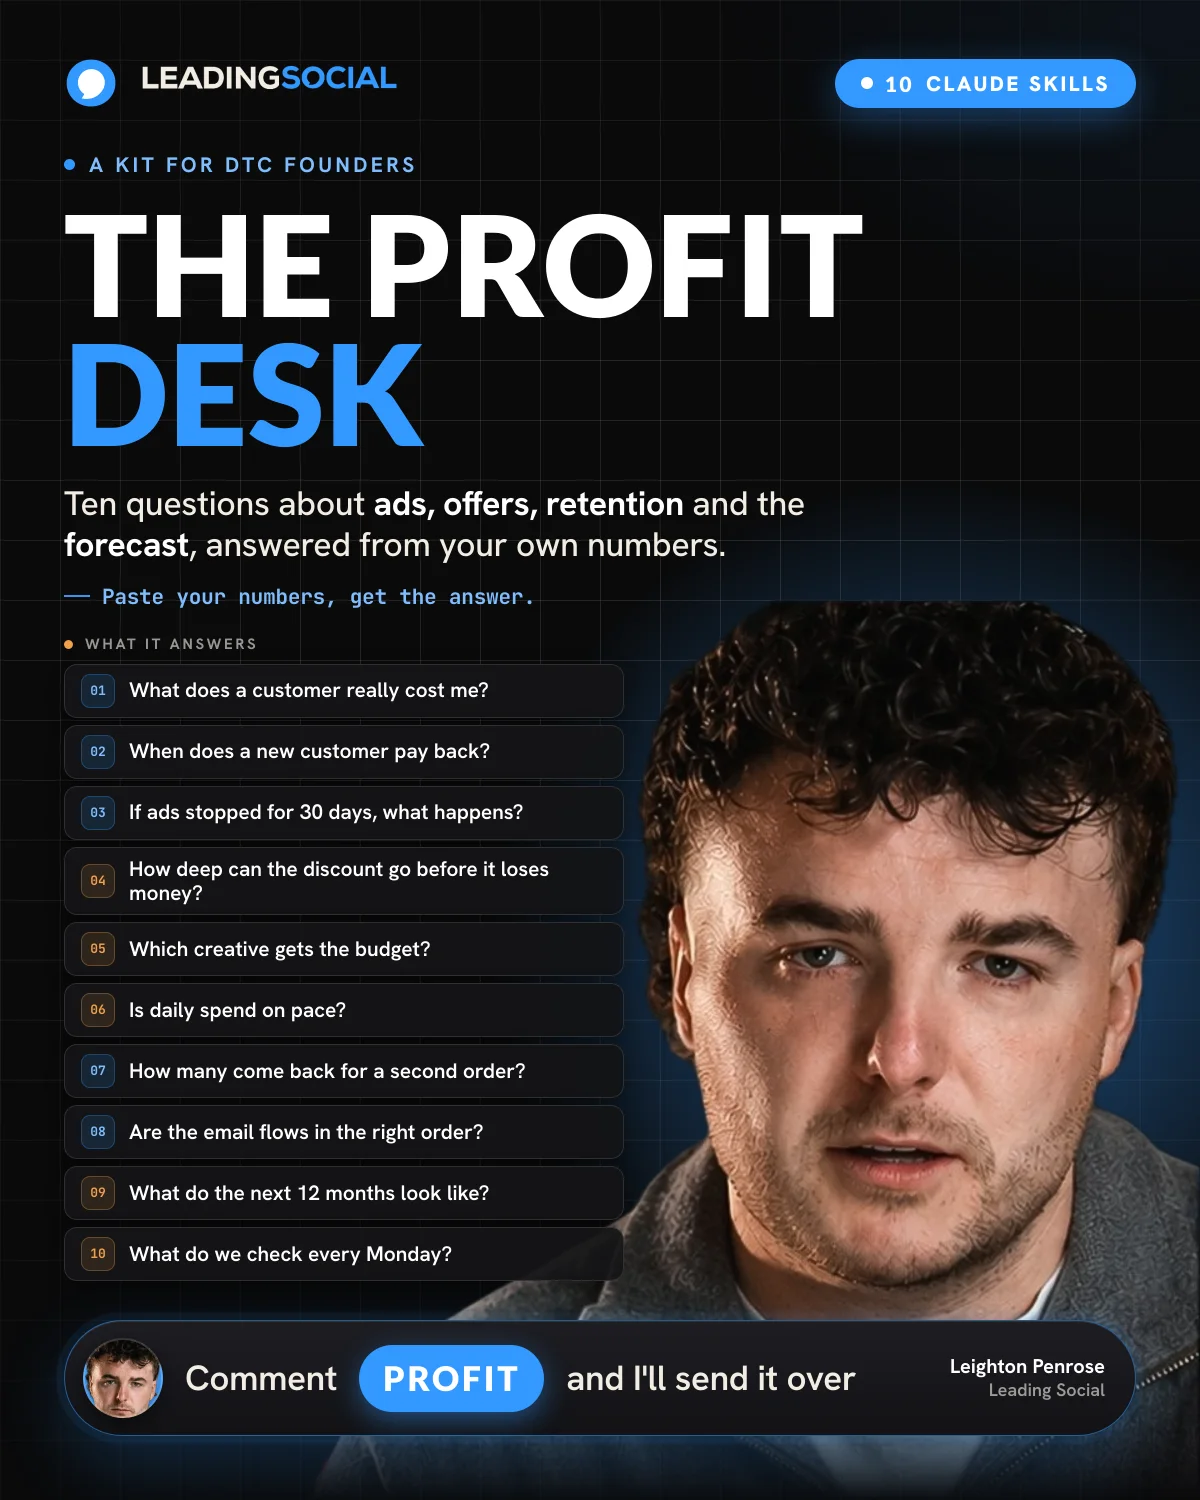
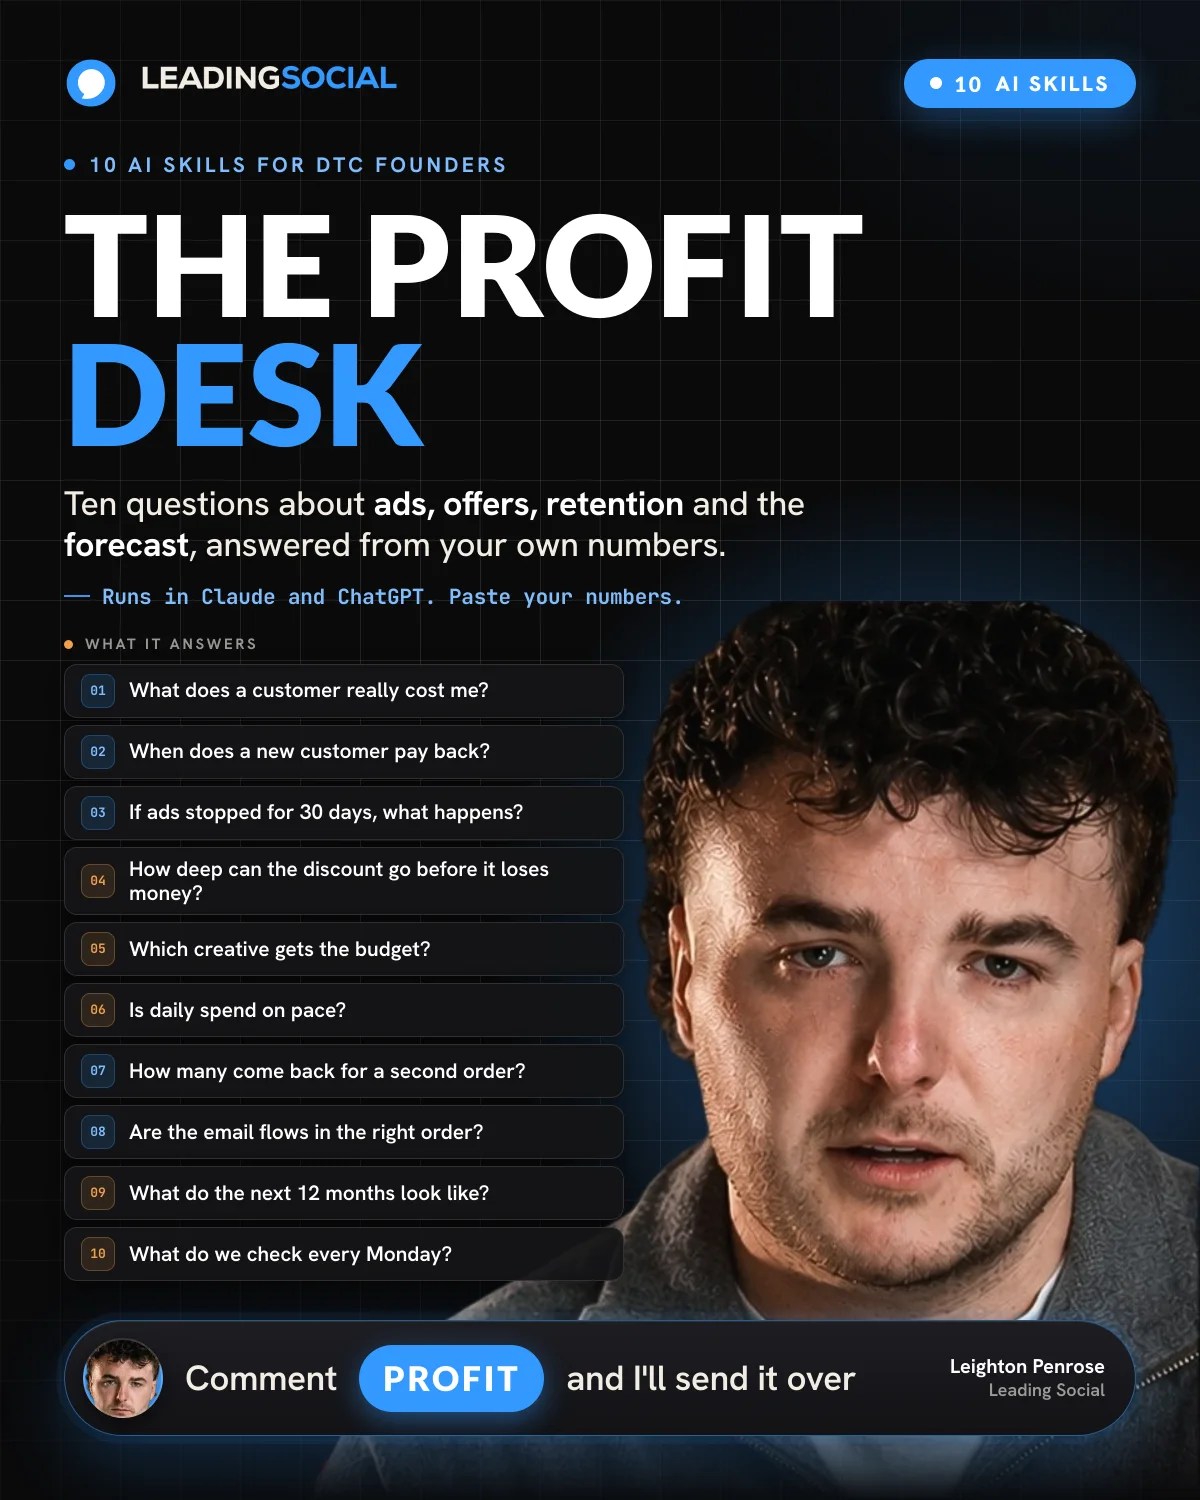
shared/leading-social: round 5

diff --git a/shared/leading-social/index.html b/shared/leading-social/index.html
@@ -23,8 +23,8 @@
 <section class="head wrap" id="top">
   <div>
     <span class="kicker">For Leighton Penrose · Leading Social</span>
-    <h1>Your content samples, from your YouTube channel.</h1>
-    <p class="strap">Four posts and a carousel, written from your videos, the two podcasts and your own feed, plus two lead magnets in your brand. The plan is at the bottom.</p>
+    <h1>Your LinkedIn as a true lead channel.</h1>
+    <p class="strap">Content samples in your voice, written from your YouTube channel, the two podcasts and your own feed, plus two lead magnets in your brand. The plan is at the bottom.</p>
     <ul class="jump" aria-label="On this page">
       <li><a class="inline-link" href="#posts">The posts <span aria-hidden="true">↓</span></a></li>
       <li><a class="inline-link" href="#topics">Topics <span aria-hidden="true">↓</span></a></li>
@@ -48,7 +48,7 @@
 <section class="sec" id="posts">
   <div class="wrap">
     <span class="kicker">The posts</span>
-    <h2>Four posts and a carousel, cut from what you already put out.</h2>
+    <h2>In your voice, from what you already put out.</h2>
   </div>
   <div class="feed">
     <div class="wrap">
@@ -57,23 +57,17 @@
 <div class="li-head"><img class="li-avatar" src="assets/leighton.jpg" alt="" width="48" height="48" loading="lazy" decoding="async"><div class="li-who"><strong>Leighton Penrose <i>· You</i></strong><span>Co-Owner, Leading Social</span><span>Draft · 🌐</span></div><span class="li-in" aria-hidden="true">in</span></div>
 <div class="li-body">We recorded a podcast with Karl O'Brien a few months back and one of the topics on the table was why brands hate agencies, and where those relationships actually fall apart.
 
-I run an agency, a lot of my friends run agencies, and I told him I didn't get where the hate comes from.
+I run an agency. A lot of my friends run agencies. So I asked him where the hate comes from.
 
 Karl's answer was the most useful thing I've heard on it.
 
-The agency is often the one putting the advertising spend to use, and he put that spend at anywhere between 10 and 40% of revenue.
-
-The founder is trying to talk about the financial side of the business. The agency, in his words, is "spitting marketing metrics back at them".
+The agency is often the one putting the ad spend to use, and he put that at anywhere between 10 and 40% of revenue.
+The founder wants to talk about the financial side of the business.
+The agency, in his words, is "spitting marketing metrics back at them".
 
 I've been that agency.
 
-A few years ago a client of ours did about half a million in sales over Black Friday. When we reviewed it in January the margins were gone.
-
-We had no sight of their costs at that stage, and we had never asked for them.
-
-Karl mentioned brands that have gone through six or seven agencies in 24 months. His advice to them was "don't make the same mistake again".
-
-In his view, more times than not the relationship breaks down because marketing and finance have no shared understanding of the numbers.
+A few years ago a client of ours did about half a million in sales over Black Friday. When we reviewed it in January the margins were gone. We had no sight of their costs, and we had never asked for them.
 
 So if you're about to hire an agency, or replace one, I'd start with one question.
 
@@ -109,7 +103,7 @@ Then we run Black Friday as a 12-week campaign with our clients. It's late Septe
 
 The full timeline is in the carousel.
 
-I put the five numbers and the 12-week timeline into one planner. Link in the comments.</div>
+I put the five numbers and the 12-week timeline into one planner. It's below 👇</div>
 <div class="li-doc">
 <div class="car" data-carousel role="group" aria-roledescription="carousel" aria-label="Black Friday carousel, 10 slides">
 <div class="car-view">
@@ -147,9 +141,9 @@ When I started Leading Social all I wanted was to replace my income and work on 
 
 The goalpost always moves.
 
-For the last couple of years I've been flying over to meet clients in LA, Miami and Vegas. Now I'm based on the same side of the Atlantic as them, and I got to speak at Ecom Edit: Health &amp; Beauty East just after I landed.
+For the last couple of years I've been flying over to meet clients in LA, Miami and Vegas. Now I'm on the same side of the Atlantic as them.
 
-The team is still in Dublin and I'll be back plenty. I said it when I turned 27 and I'll say it again: Ireland isn't that bad. The atmosphere and the people are unmatched, and so is the Guinness.
+I said it when I turned 27 and I'll say it again: Ireland isn't that bad. The atmosphere and the people are unmatched, and so is the Guinness.
 
 If you run a brand in New York, or you're a friend passing through, let me know if you're around 🍺</div>
 <img class="li-photo" src="assets/leighton-pint.webp" alt="Leighton raising a pint of Guinness" width="1110" height="1040" loading="lazy" decoding="async">
@@ -167,27 +161,27 @@ If you run a brand in New York, or you're a friend passing through, let me know 
 
 I came into every brand with ideas to push that number up, and in all fairness, pre-COVID most of us were in that boat.
 
-ROAS tells you how an ad performs today. CAC to LTV tells you whether the business can scale for years.
+ROAS tells you how an ad performs today.
+CAC to LTV tells you whether the business can scale for years.
 
-So now the first thing we map for a new brand is LTV over time: day 0, day 30, day 60, day 90, day 180. Then we put the true CAC beside each one.
-
-True CAC means everything it took to get that customer: ad spend, creator fees, agency fees, content, the smaller tools running in the background.
+So now the first thing we map for a new brand is LTV over time, with the true CAC beside it. True CAC means everything it took to get that customer:
+• ad spend
+• creator fees
+• agency fees
+• content
+• the smaller tools running in the background
 
 Let's say two brands both pay €40 to acquire a customer.
 
-The first gets €55 back on day 0, €75 by day 30 and €110 by day 90. Profitable on the first order, and that brand can usually scale hard.
+The first gets €55 back on day 0 and €110 by day 90. That brand can usually scale hard.
 
-The second gets €30 on day 0 and €45 by day 90.
+The second gets €30 on day 0 and €45 by day 90. That brand is bleeding cash while it waits for retention to save it.
 
 Same CAC.
 
-That brand is bleeding cash while it waits for retention to save it, and there's no proof yet that it will.
-
-The rough healthy range we work to is around 1.5 times your CAC back within 30 to 60 days, and two to three times within 90 to 180.
-
 It won't hold for everyone. If you sell sofas, nobody is buying four a year.
 
-I broke the whole thing down in a video we now use as the SOP for every new client. I'll drop the link in the comments.</div>
+I broke the whole thing down in the video we now use as the SOP for every new client.</div>
 <div class="li-actions" aria-hidden="true">
 <span><svg viewBox="0 0 24 24"><path d="M7 11v9H4v-9h3zm0 0 4-7c1.5 0 2.5 1 2.5 2.5V10h5a2 2 0 0 1 2 2.3l-1.2 6a2 2 0 0 1-2 1.7H7"/></svg>Like</span>
 <span><svg viewBox="0 0 24 24"><path d="M4 5h16v11H9l-5 4V5z"/></svg>Comment</span>
@@ -213,28 +207,17 @@ Which one can scale without panic?
 
 Acquisition matters. Totally get that.
 It's mainly what I built my career on.
-It's how people find you, and you see the jump almost straight away.
-You launch ads, revenue moves, you feel the momentum.
 
 That momentum is fragile though.
-I've learned it in my own business too.
 It's strange to build a whole system around something you don't really control.
 
-Retention doesn't give you that adrenaline hit.
-A good email campaign is a nice morning.
-A new ad taking off within a couple of hours feels like you've got something going.
-
-But when customers start coming back on their own, a few things change.
+When customers start coming back on their own, a few things change.
 you stop rebuilding revenue from zero every month
 cash flow gets more predictable
 the ad account gets a lot less stressful
 and you usually have more cash in the bank
 
-It can be boring work. It probably builds the strongest businesses I see.
-
-You spent so much getting these customers. Make sure they're staying, make sure they're spending, then pair that with a strong acquisition plan.
-
-Full video is on YouTube, link in the comments.</div>
+It can be boring work. It probably builds the strongest businesses I see.</div>
 <div class="li-actions" aria-hidden="true">
 <span><svg viewBox="0 0 24 24"><path d="M7 11v9H4v-9h3zm0 0 4-7c1.5 0 2.5 1 2.5 2.5V10h5a2 2 0 0 1 2 2.3l-1.2 6a2 2 0 0 1-2 1.7H7"/></svg>Like</span>
 <span><svg viewBox="0 0 24 24"><path d="M4 5h16v11H9l-5 4V5z"/></svg>Comment</span>
@@ -307,7 +290,7 @@ Full video is on YouTube, link in the comments.</div>
       <div class="lm-copy">
         <span class="badge">B · Keyword <kbd>PROFIT</kbd></span>
         <h3>The Profit Desk</h3>
-        <p>Ten Claude skills that answer the questions a buyer of the brand would ask: what a customer really costs, when they pay back, what happens if ads stop for 30 days, how deep the discount can go. The founder pastes their numbers and gets the answer with the arithmetic shown.</p>
+        <p>Ten AI skills for DTC founders, built for Claude and usable in ChatGPT. Each one answers a question a buyer of the brand would ask: what a customer really costs, when they pay back, what happens if ads stop for 30 days, how deep the discount can go.</p>
       </div>
     </article>
   </div>
@@ -329,13 +312,11 @@ Full video is on YouTube, link in the comments.</div>
   <h2>What you get.</h2>
   <p class="strap">LinkedIn already brings you inbound. Let's boost it.</p>
   <div class="cols3">
-    <article class="col"><span class="stage-number">01 / Content</span><h3>Four to five posts a week, from your videos.</h3><p><strong>I write, design and publish from your profile.</strong> The source is your videos, plus a five-minute voice note on Fridays about what you saw that week.</p></article>
-    <article class="col"><span class="stage-number">02 / Lead magnets</span><h3>Lead magnets in your brand.</h3><p>Each one gets a cover, a keyword and delivery by DM. <strong>The Black Friday planner goes out first, then The Profit Desk.</strong></p></article>
+    <article class="col"><span class="stage-number">01 / Content</span><h3>Four to five posts a week.</h3><p><strong>I write, design and publish from your profile.</strong> Expert, genuine content extracted from your calls, YouTube videos, podcast, industry winners, viral trends.</p></article>
+    <article class="col"><span class="stage-number">02 / Lead magnets</span><h3>Lead magnets in your brand.</h3><ul class="plain"><li>Each one gets a cover</li><li>A keyword</li><li>Delivery by DM</li><li>Then we follow the conversation</li></ul></article>
     <article class="col"><span class="stage-number">03 / Outreach and conversations</span><h3>Warm first, then direct.</h3><p>Warm outreach goes to people who engage with your posts and fit your buyer. Direct outreach goes to founders of <strong>€3m to €30m Shopify brands in Ireland, the UK and the US</strong>. I handle every reply through to the booked call.</p></article>
   </div>
-  <div class="icp2"><span>ICP, first draft</span>
-    <dl><dt>Who</dt><dd>Founder, co-founder or CEO</dd><dt>Brand</dt><dd>DTC on Shopify, €3m to €30m a year</dd><dt>Where</dt><dd>Ireland and the UK first, then the US</dd><dt>Signal</dt><dd>Already running paid ads</dd></dl>
-  </div>
+  <p class="icp3"><b>ICP, first draft.</b> Founders, co-founders and CEOs of DTC brands on Shopify doing €3m to €30m a year, in Ireland and the UK first and then the US, already running paid ads.</p>
 
   <div class="offer" id="start">
     <article class="plan">
@@ -344,21 +325,20 @@ Full video is on YouTube, link in the comments.</div>
       <div class="plan-price"><strong>$3,000</strong><span>/ month</span></div>
       <p class="plan-terms">Month to month. No lock-in.</p>
       <ul>
-        <li><strong>4 to 5 posts a week</strong>written and designed from your videos and your Friday note</li>
+        <li><strong>4 to 5 posts a week</strong>Expert, genuine content extracted from your calls, YouTube videos, podcast, industry winners, viral trends</li>
         <li><strong>Lead magnets in your brand</strong>cover post, keyword and delivery by DM</li>
         <li><strong>Warm and direct outreach from your profile</strong>first messages agreed together</li>
         <li><strong>Every conversation run by me</strong>qualified, then booked with the context</li>
         <li><strong>Board, messages, shared Slack</strong>weekly report, monthly review</li>
       </ul>
       <div class="plan-actions"><a class="cta" href="https://buy.stripe.com/eVq00b1M7cvTgRw7XtfEk18">Start next week <span aria-hidden="true">↗</span></a><a class="inline-link" href="https://calendly.com/im-ivanmanfredi/30min">Book the onboarding call <span aria-hidden="true">↗</span></a></div>
-      <p class="fine">No minimum term, stop whenever you want. All tools and subscriptions are included. Prices in USD, one LinkedIn profile. Your content, audience and email list stay yours.</p>
+      <p class="fine">All tools and subscriptions are included. Prices in USD, one LinkedIn profile. Your content, audience and email list stay yours.</p>
     </article>
     <article class="expert" id="ivan">
       <img src="assets/ivan.jpg" alt="Ivan Manfredi" width="672" height="900" loading="lazy" decoding="async">
       <div class="expert-copy">
-        <span class="kicker">Who does the work</span>
         <h3>You work directly with me.</h3>
-        <p>I build the strategy, create the content and run the conversations that bring relevant buyers to your calendar. One person, in your Slack.</p>
+        <p>I build the strategy, create the content and run the conversations that bring relevant buyers to your calendar. 100% done for you.</p>
         <div class="expert-nums"><div><strong>$2M</strong><span>client revenue generated</span></div><div><strong>$50M</strong><span>pipeline built</span></div></div>
         <p class="expert-cap"><strong>Ivan Manfredi.</strong> I work with up to 10 clients at a time.</p>
       </div>
@@ -372,7 +352,6 @@ Full video is on YouTube, link in the comments.</div>
   <span class="close-tag">Work directly with Ivan</span>
   <h2>Let’s put your LinkedIn on steroids.</h2>
   <div class="closing-actions"><a class="cta light" href="https://buy.stripe.com/eVq00b1M7cvTgRw7XtfEk18">Start next week · $3,000 a month <span aria-hidden="true">↗</span></a><a class="cta ghost" href="https://calendly.com/im-ivanmanfredi/30min">Book the onboarding call <span aria-hidden="true">↗</span></a></div>
-  <small>Month to month. Stop whenever you want.</small>
 </section>
 </main>
 

diff --git a/shared/leading-social/assets/page.css b/shared/leading-social/assets/page.css
@@ -446,3 +446,15 @@ button.lane-chip:hover{border-color:#b8b0a6}
 @media(max-width:760px){.trow{grid-template-columns:110px 1fr;gap:12px}.trow img{width:110px}.icp2{grid-template-columns:1fr;gap:10px}.icp2 dl{grid-template-columns:1fr}}
 
 .li-photo{display:block;width:100%;height:auto;margin-top:12px}
+
+/* round 5 */
+.feed-col{max-width:1130px;display:block;columns:2;column-gap:20px}
+.feed-col .li-post{break-inside:avoid;margin:0 0 16px;display:inline-block;width:100%}
+.wrap-narrow{max-width:1130px}
+@media(max-width:900px){.feed-col{columns:1;max-width:555px}.wrap-narrow{max-width:555px}}
+.icp3{margin-top:18px;padding:18px 0;border-top:1px solid var(--line);border-bottom:1px solid var(--line);font-size:16.5px;line-height:1.6;color:#4e473f;max-width:none}
+.icp3 b{color:var(--ink)}
+ul.plain{list-style:none;padding:0;margin:10px 0 0}
+ul.plain li{position:relative;padding:7px 0 7px 18px;font-size:15.5px;line-height:1.5;color:#4e473f;border-bottom:1px solid var(--line)}
+ul.plain li:last-child{border-bottom:0}
+ul.plain li::before{content:"";position:absolute;left:0;top:15px;width:7px;height:7px;border-radius:50%;background:var(--red)}
